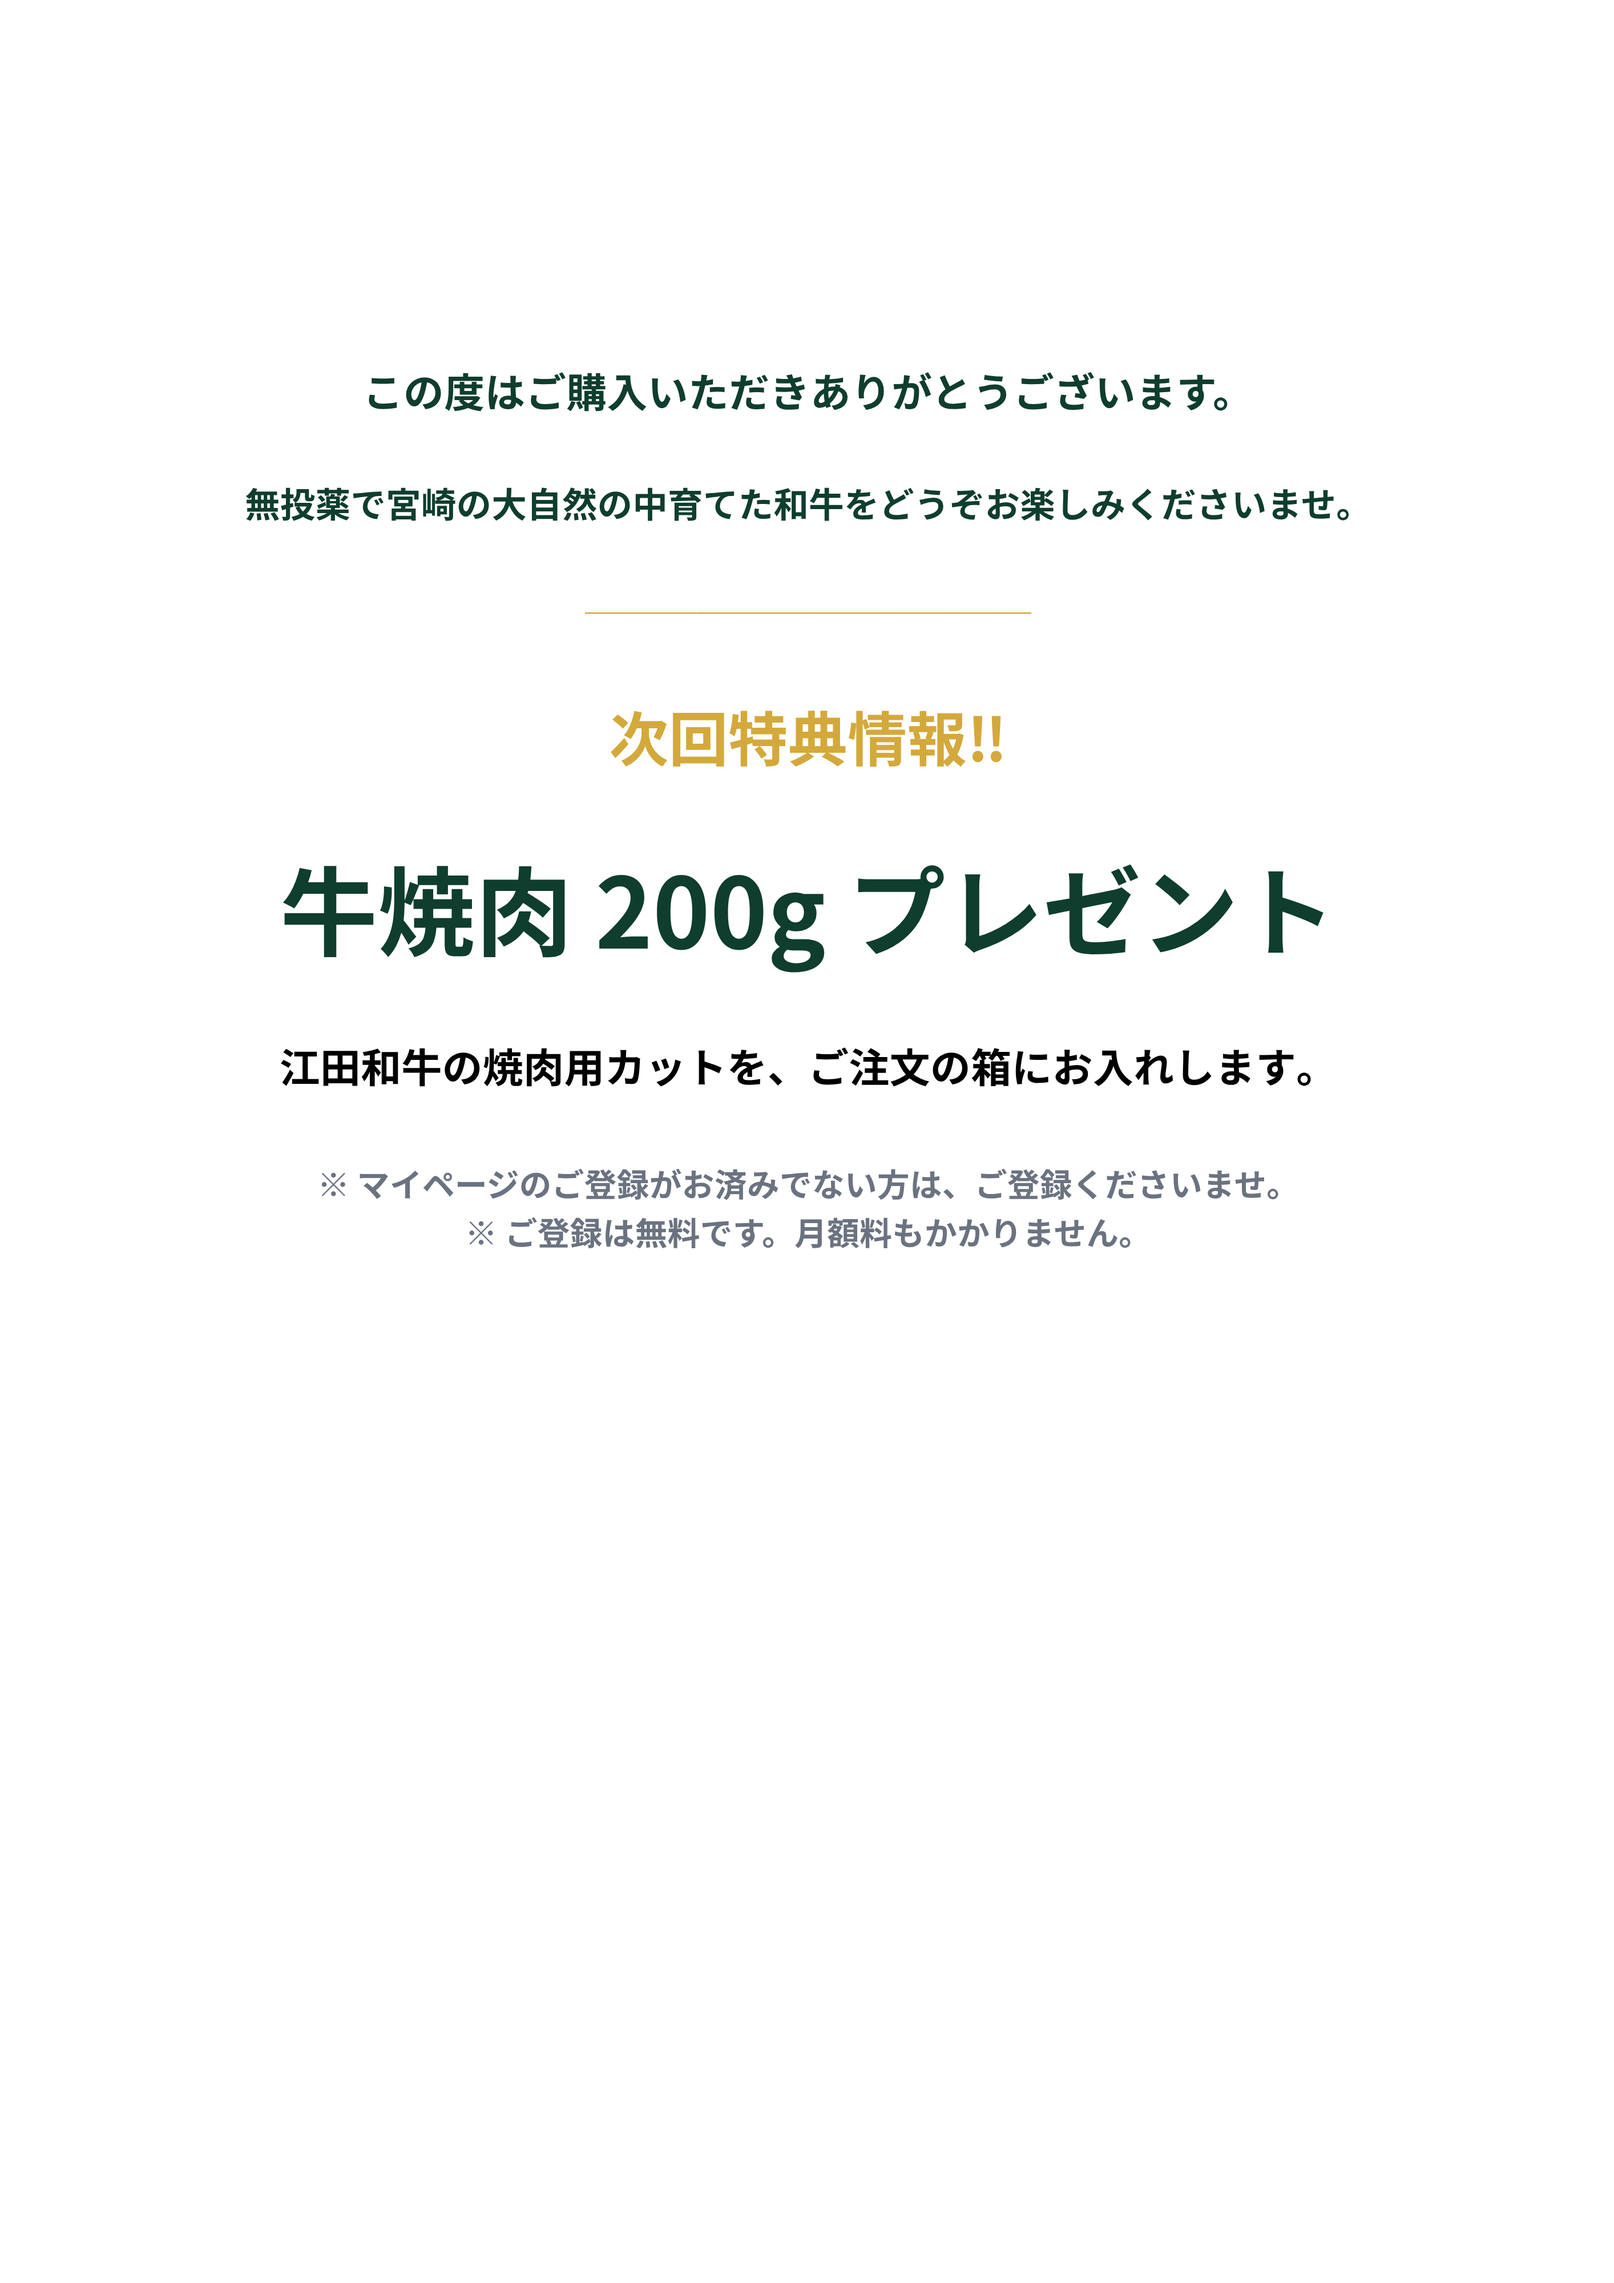
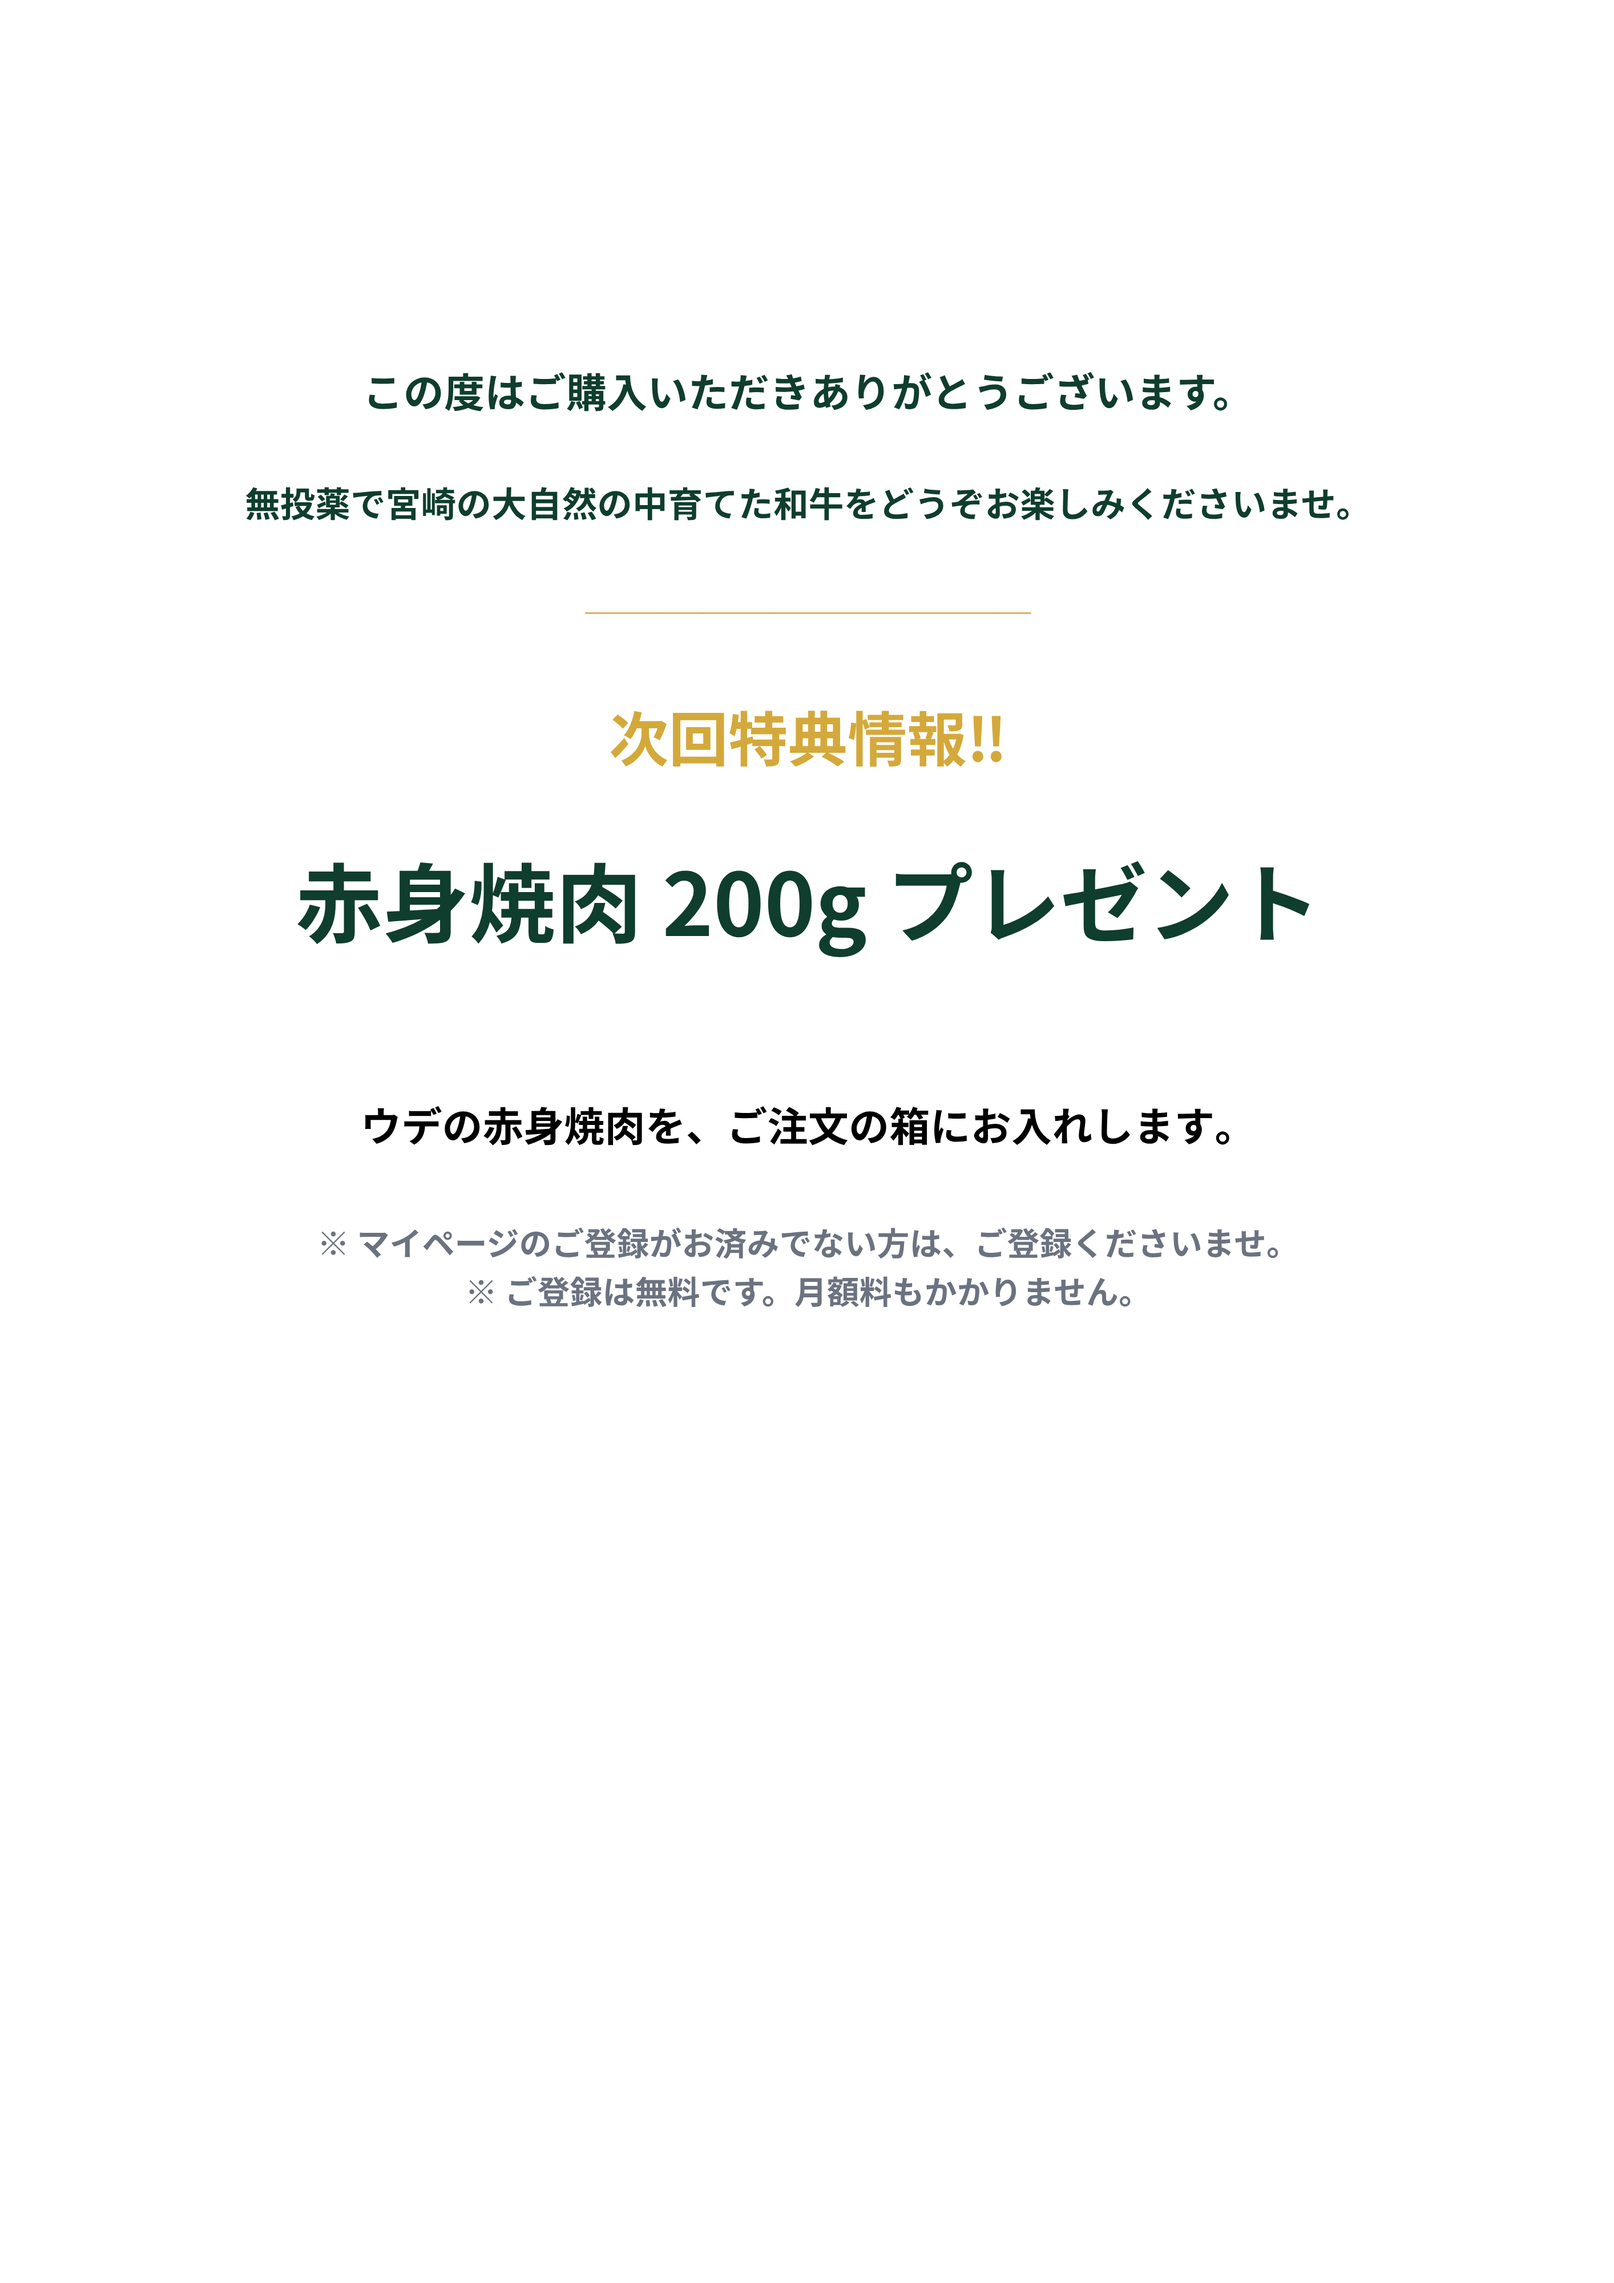
同梱用紙5回目の絵柄を「赤身焼肉」に差し替える
Canva「ECサイト_同梱物/1回目試作」4ページ目(5回目特典)の見出しと説明文を
赤身焼肉に直し、同じ 2828x4000px で書き出して next-5.png を置き換えた。
見出しは1行に収めるため 36pt → 32pt。
reward-sheet.html の下書き文言も絵柄と同じ言い回しに揃えた。

Changed region(s): [[0.1556, 0.375, 0.8091, 0.5938]]

diff --git a/reward-sheet.html b/reward-sheet.html
@@ -167,7 +167,7 @@ var SHEET_TEXT = {
   4: { main: '無添加ハンバーグ 2個 プレゼント',
        sub:  '130g × 2個。自家製・無添加のハンバーグをお入れします。' },
   5: { main: '赤身焼肉 200g プレゼント',
-       sub:  'ウデの赤身を焼肉用にカット。脂は控えめ、噛むほどに肉の味が濃い部位です。' },
+       sub:  'ウデの赤身焼肉を、ご注文の箱にお入れします。' },
   6: { main: '限定部位をお選びいただけます',
        sub:  'イチボ・シンシンなど、普段は店頭に出さない希少部位です。' }
 };
